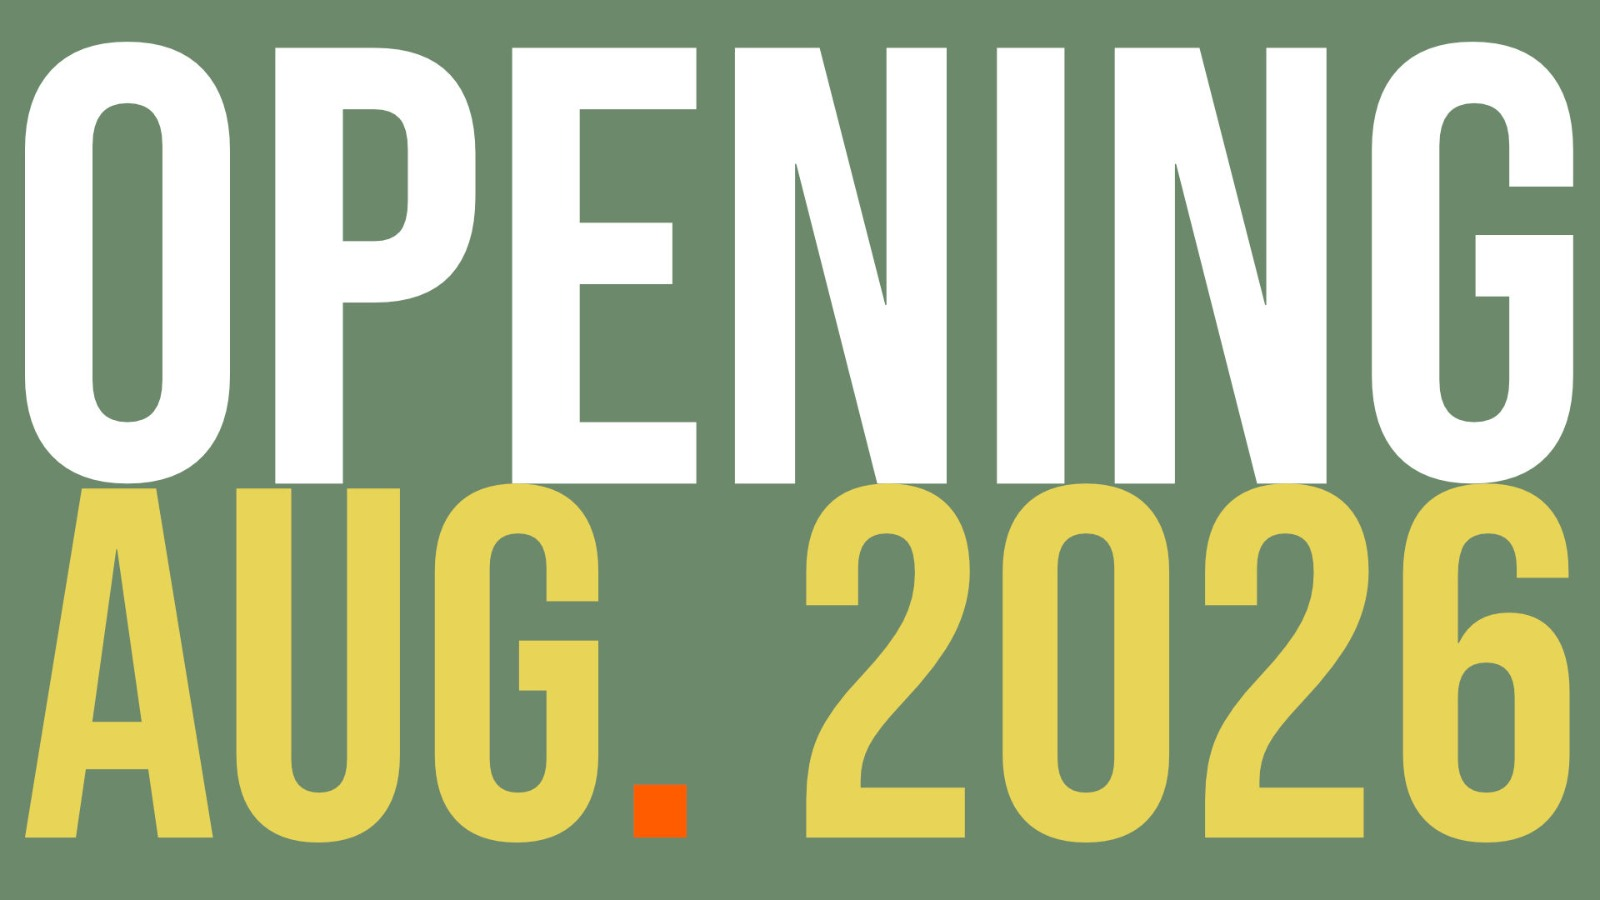
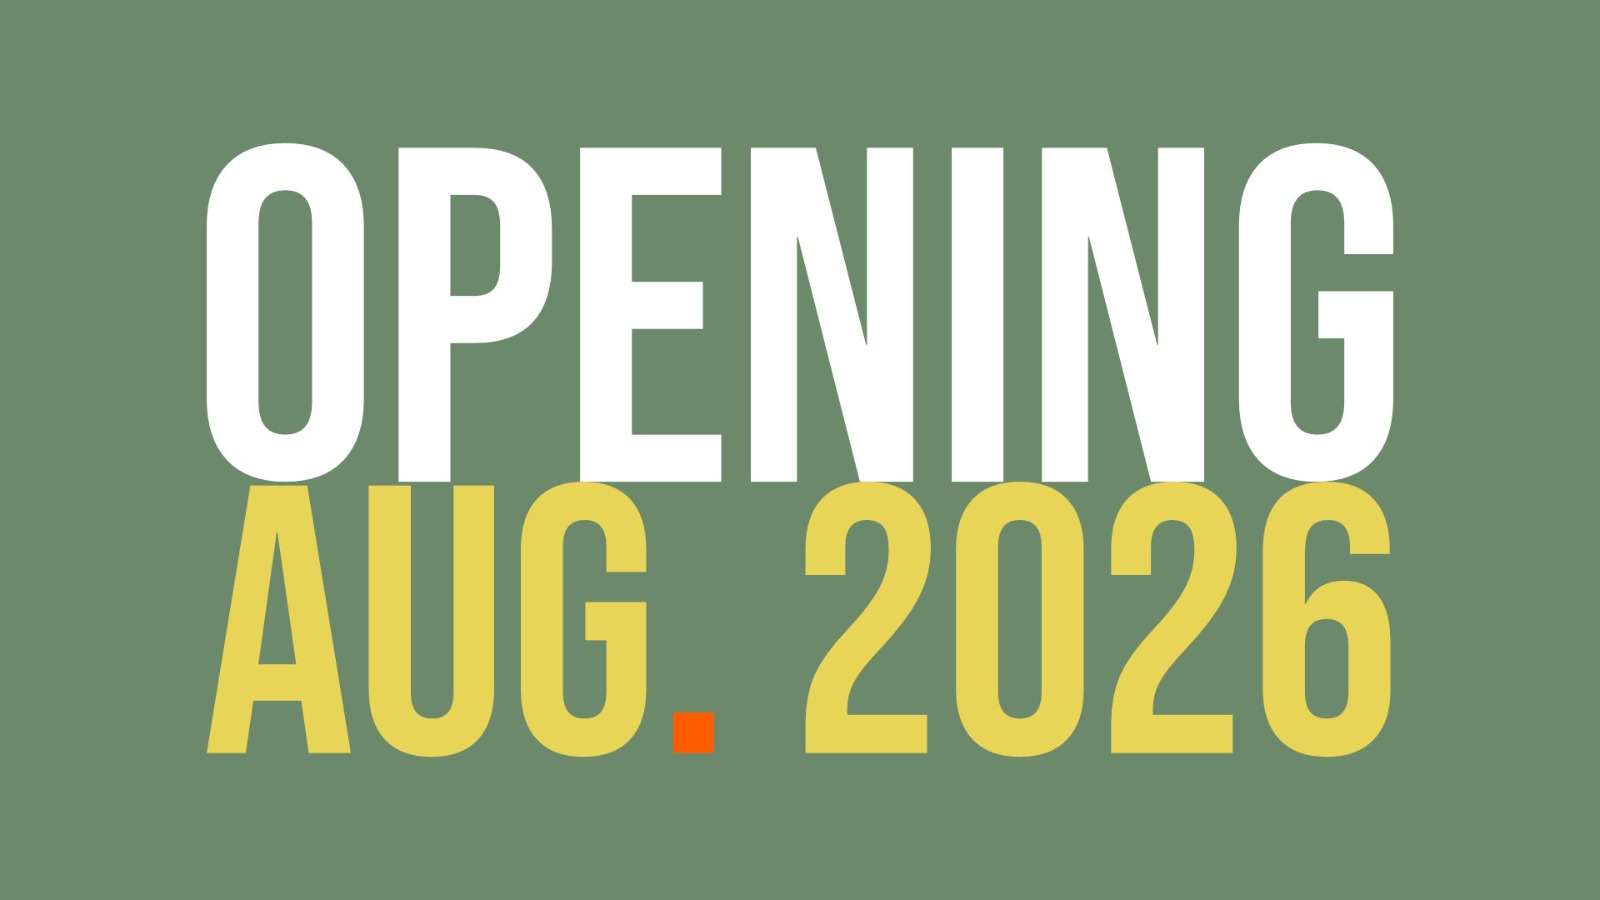
Fixed shop image

diff --git a/src/components/sections/shop/ShopHeroSection.tsx b/src/components/sections/shop/ShopHeroSection.tsx
@@ -29,7 +29,7 @@ const ShopHeroSection = () => {
 
         <div className="shop-hero-image-container">
           <Image
-            src="/Shop Image - Background.webp"
+            src="/Shop Image - Background 2.jpeg"
             alt="Shop Opening June 2026"
             width={1920}
             height={1080}
